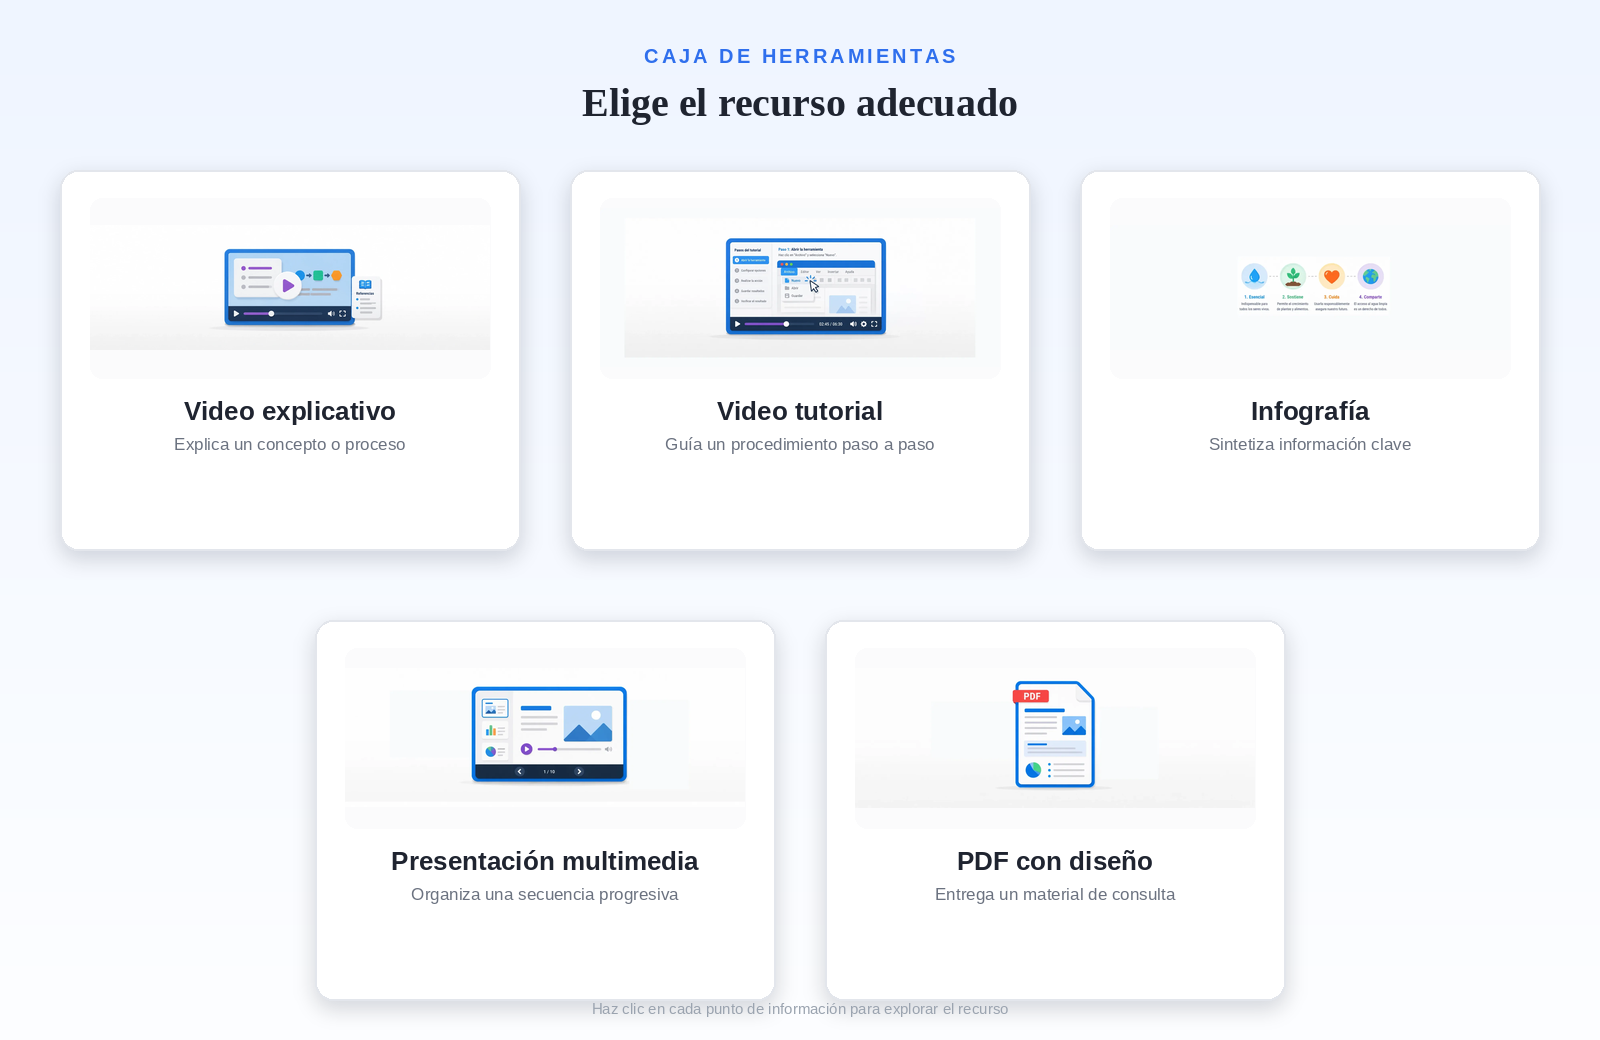
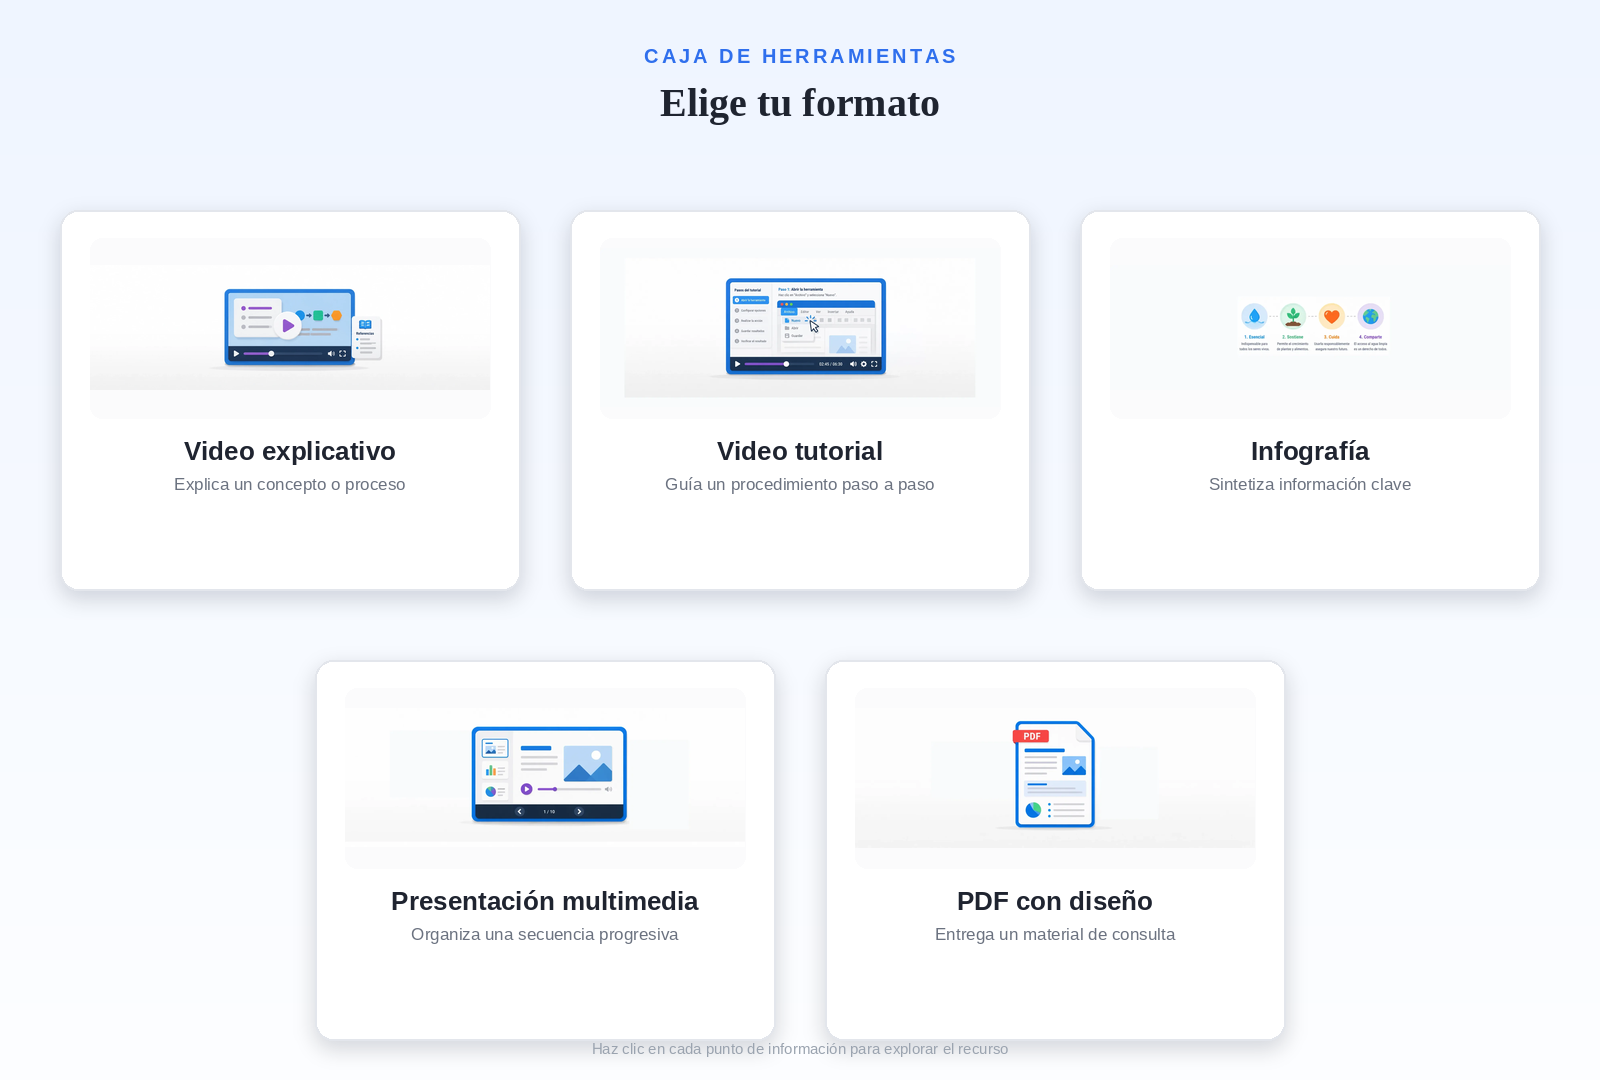
Rename board title to "Elige tu formato" with more spacing, simplify hint
Claude-Session: https://claude.ai/code/session_01XU1vwYxuC6CXtZG2tyMSYD

diff --git a/tablero-recursos-informativos.html b/tablero-recursos-informativos.html
@@ -203,7 +203,7 @@
          id="img-tablero" />
 
     <!-- ① Video explicativo -->
-    <div class="hotspot" style="left:31.25%; top:18.269%;"
+    <div class="hotspot" style="left:31.25%; top:21.296%;"
          data-title="1 · Video explicativo"
          data-desc="Recurso audiovisual breve que presenta conceptos, procesos o fenómenos de manera clara, visual y ordenada. Es útil para introducir o reforzar ideas complejas antes de una actividad, un análisis o una aplicación. Debe ser breve, tener una narración directa, apoyarse en ejemplos o gráficos y acompañarse de una instrucción formativa que indique qué observar y cómo usar la información."
          data-cuando="Úsalo para: explicar"
@@ -212,7 +212,7 @@
     </div>
 
     <!-- ② Video tutorial -->
-    <div class="hotspot" style="left:63.125%; top:18.269%;"
+    <div class="hotspot" style="left:63.125%; top:21.296%;"
          data-title="2 · Video tutorial"
          data-desc="Recurso audiovisual que guía paso a paso la realización de una acción, como usar una herramienta, completar una actividad, navegar una plataforma o producir una evidencia. Es adecuado cuando el estudiante necesita pausar, repetir y verificar un procedimiento. Debe presentar una secuencia lógica, mostrar con claridad los elementos importantes y explicar cómo comprobar que la tarea fue realizada correctamente."
          data-cuando="Úsalo para: guiar un procedimiento"
@@ -221,7 +221,7 @@
     </div>
 
     <!-- ③ Infografía -->
-    <div class="hotspot" style="left:95%; top:18.269%;"
+    <div class="hotspot" style="left:95%; top:21.296%;"
          data-title="3 · Infografía"
          data-desc="Recurso visual que sintetiza información mediante texto breve, datos, íconos, imágenes, esquemas o relaciones gráficas. Sirve para comunicar ideas clave, comparaciones, procesos, clasificaciones o datos relevantes de forma rápida y clara. Debe priorizar la información esencial, mantener una jerarquía visual evidente y acompañarse de una instrucción que indique qué observar, comparar o recuperar."
          data-cuando="Úsalo para: sintetizar información"
@@ -230,7 +230,7 @@
     </div>
 
     <!-- ④ Presentación multimedia -->
-    <div class="hotspot" style="left:47.1875%; top:61.538%;"
+    <div class="hotspot" style="left:47.1875%; top:62.963%;"
          data-title="4 · Presentación multimedia"
          data-desc="Recurso secuenciado que organiza información mediante diapositivas, texto breve, imágenes, gráficos, audio, video o elementos interactivos simples. Ayuda a guiar la comprensión progresiva de un tema, destacar relaciones entre conceptos y preparar una actividad posterior. Debe evitar la saturación de texto, tener una estructura clara y usar apoyos visuales que faciliten la comprensión."
          data-cuando="Úsalo para: organizar una presentación"
@@ -239,7 +239,7 @@
     </div>
 
     <!-- ⑤ PDF con diseño -->
-    <div class="hotspot" style="left:79.0625%; top:61.538%;"
+    <div class="hotspot" style="left:79.0625%; top:62.963%;"
          data-title="5 · PDF con diseño"
          data-desc="Documento informativo maquetado para consulta, descarga o lectura guiada. Puede funcionar como guía, ficha conceptual, lectura breve, instructivo, material complementario o documento de profundización. Debe tener secciones claras, jerarquías visuales, lenguaje accesible, pausas para facilitar la lectura y referencias bibliográficas que respalden contenidos, imágenes o datos."
          data-cuando="Úsalo para: entregar un material descargable"
@@ -256,7 +256,7 @@
   </div>
   <div class="hint">
     <div class="hint-dot"></div>
-    Pasa el cursor o haz clic sobre cada punto de información para conocer el recurso. Da clic o doble clic sobre "Ver plantilla de trabajo" dentro del recuadro para acceder a la plantilla.
+    Pasa el cursor o haz clic sobre cada punto de información para conocer el recurso. Da clic sobre "Ver plantilla de trabajo" dentro del recuadro para acceder a la plantilla.
   </div>
 </div>
 
